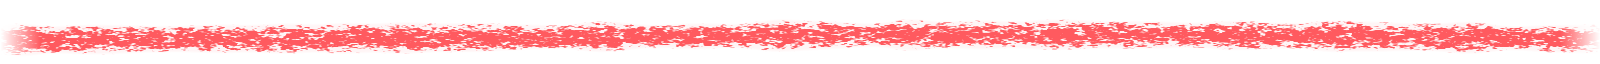
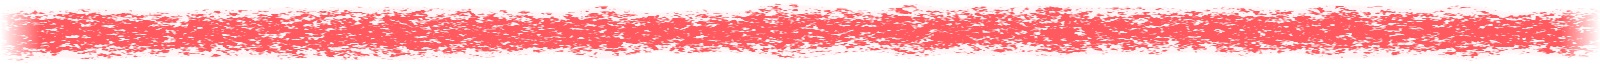
강조 글 크레파스 밑줄을 굵게

diff --git a/index.html b/index.html
@@ -8,47 +8,47 @@
 <meta name="viewport" content="width=device-width, initial-scale=1">
 <title>이경환 포트폴리오</title>
 <link rel="stylesheet" href="https://cdn.jsdelivr.net/gh/orioncactus/pretendard@v1.3.9/dist/web/variable/pretendardvariable-dynamic-subset.min.css">
-<link rel="stylesheet" href="css/w-base.css?v=1126k">
-<link rel="stylesheet" href="css/w-hero.css?v=1126k">
-<link rel="stylesheet" href="css/w-feature.css?v=1126k">
-<link rel="stylesheet" href="css/w-sc.css?v=1126k">
-<link rel="stylesheet" href="css/w-widgets.css?v=1126k">
-<link rel="stylesheet" href="css/w-pin.css?v=1126k">
-<link rel="stylesheet" href="css/w-hgal.css?v=1126k">
-<link rel="stylesheet" href="css/w-tween.css?v=1126k">
-<link rel="stylesheet" href="css/w-line.css?v=1126k">
-<link rel="stylesheet" href="css/w-mesh.css?v=1126k">
-<link rel="stylesheet" href="css/w-parts.css?v=1126k">
-<link rel="stylesheet" href="css/w-modal.css?v=1126k">
-<link rel="stylesheet" href="css/hook.css?v=1126k">
-<link rel="stylesheet" href="css/w-crit.css?v=1126k">
-<link rel="stylesheet" href="css/w-heroback.css?v=1126k">
-<link rel="stylesheet" href="css/w-chip.css?v=1126k">
-<link rel="stylesheet" href="css/w-app.css?v=1126k">
-<link rel="stylesheet" href="css/w-cflow.css?v=1126k">
-<link rel="stylesheet" href="css/w-edit.css?v=1126k">
-<link rel="stylesheet" href="css/w-tech.css?v=1126k">
-<link rel="stylesheet" href="css/w-tech2.css?v=1126k">
-<link rel="stylesheet" href="css/w-tech3.css?v=1126k">
-<link rel="stylesheet" href="css/w-tech4.css?v=1126k">
-<link rel="stylesheet" href="css/w-way.css?v=1126k">
-<link rel="stylesheet" href="css/w-story.css?v=1126k">
-<link rel="stylesheet" href="css/w-dock.css?v=1126k">
-<link rel="stylesheet" href="css/w-more.css?v=1126k">
-<link rel="stylesheet" href="css/w-side.css?v=1126k">
-<link rel="stylesheet" href="css/w-trim.css?v=1126k">
-<link rel="stylesheet" href="css/w-hook2.css?v=1126k">
-<link rel="stylesheet" href="css/w-read.css?v=1126k">
+<link rel="stylesheet" href="css/w-base.css?v=1126m">
+<link rel="stylesheet" href="css/w-hero.css?v=1126m">
+<link rel="stylesheet" href="css/w-feature.css?v=1126m">
+<link rel="stylesheet" href="css/w-sc.css?v=1126m">
+<link rel="stylesheet" href="css/w-widgets.css?v=1126m">
+<link rel="stylesheet" href="css/w-pin.css?v=1126m">
+<link rel="stylesheet" href="css/w-hgal.css?v=1126m">
+<link rel="stylesheet" href="css/w-tween.css?v=1126m">
+<link rel="stylesheet" href="css/w-line.css?v=1126m">
+<link rel="stylesheet" href="css/w-mesh.css?v=1126m">
+<link rel="stylesheet" href="css/w-parts.css?v=1126m">
+<link rel="stylesheet" href="css/w-modal.css?v=1126m">
+<link rel="stylesheet" href="css/hook.css?v=1126m">
+<link rel="stylesheet" href="css/w-crit.css?v=1126m">
+<link rel="stylesheet" href="css/w-heroback.css?v=1126m">
+<link rel="stylesheet" href="css/w-chip.css?v=1126m">
+<link rel="stylesheet" href="css/w-app.css?v=1126m">
+<link rel="stylesheet" href="css/w-cflow.css?v=1126m">
+<link rel="stylesheet" href="css/w-edit.css?v=1126m">
+<link rel="stylesheet" href="css/w-tech.css?v=1126m">
+<link rel="stylesheet" href="css/w-tech2.css?v=1126m">
+<link rel="stylesheet" href="css/w-tech3.css?v=1126m">
+<link rel="stylesheet" href="css/w-tech4.css?v=1126m">
+<link rel="stylesheet" href="css/w-way.css?v=1126m">
+<link rel="stylesheet" href="css/w-story.css?v=1126m">
+<link rel="stylesheet" href="css/w-dock.css?v=1126m">
+<link rel="stylesheet" href="css/w-more.css?v=1126m">
+<link rel="stylesheet" href="css/w-side.css?v=1126m">
+<link rel="stylesheet" href="css/w-trim.css?v=1126m">
+<link rel="stylesheet" href="css/w-hook2.css?v=1126m">
+<link rel="stylesheet" href="css/w-read.css?v=1126m">
 <script type="module" src="https://unpkg.com/@google/model-viewer@3.5.0/dist/model-viewer.min.js"></script>
 <link rel="stylesheet" href="https://fonts.googleapis.com/css2?family=Nanum+Pen+Script&display=swap">
-<link rel="stylesheet" href="css/marks.css?v=1126k">
-<link rel="stylesheet" href="css/pt.css?v=1126k">
-<link rel="stylesheet" href="css/theme_pastel.css?v=1126k">
-<link rel="stylesheet" href="css/theme_dark.css?v=1126k">
-<link rel="stylesheet" href="css/crayon.css?v=1126k">
-<link rel="stylesheet" href="css/cards05.css?v=1126k">
-<link rel="stylesheet" href="css/holdscene.css?v=1126k">
-<link rel="stylesheet" href="css/story_vis.css?v=1126k">
+<link rel="stylesheet" href="css/marks.css?v=1126m">
+<link rel="stylesheet" href="css/pt.css?v=1126m">
+<link rel="stylesheet" href="css/theme_pastel.css?v=1126m">
+<link rel="stylesheet" href="css/theme_dark.css?v=1126m">
+<link rel="stylesheet" href="css/crayon.css?v=1126m">
+<link rel="stylesheet" href="css/cards05.css?v=1126m">
+<link rel="stylesheet" href="css/holdscene.css?v=1126m">
+<link rel="stylesheet" href="css/story_vis.css?v=1126m">
 <script>try{history.scrollRestoration="manual"}catch(e){}try{document.documentElement.dataset.theme=localStorage.getItem("site-theme")==="dark"?"dark":"pastel"}catch(e){document.documentElement.dataset.theme="pastel"}</script>
 </head>
 <body data-bg0="#0b0c0f">
@@ -353,21 +353,21 @@
   <div class="sec-title"><h2><span>응용</span>설계는 몰랐지만 클리커까지</h2></div>
   <p class="sec-lede">모델링에서 AI에게 학습시킨 방식을 배운 적 없는 기구 설계에 그대로 썼습니다.<br>받은 마스코트에 머리를 누르면 딸깍하는 구조를 더했습니다.</p>
   <ol class="tl" aria-label="설탕이에서 클리커까지 지나온 길"><li><em>시작</em><b>처음 만든 설탕이</b></li><li><em>블렌더 학습 뒤</em><b>머리를 누르는 클리커 판</b></li><li><em>설계</em><b>12개 부품으로 나눠 검사</b></li><li><em>시험</em><b>홈 둘레 시험 조각 먼저</b></li><li><em>첫 시험 출력</em><b>한 번에 조립 ✓</b></li></ol>
-  <div class="cflow"><article class='cstep rise side'><div class='cs-pics pair'><figure class='cs-pic a'><img src='img/clicker/cut/sugar_first.webp?v=1126k' alt='처음 만든 설탕이 모델(11월 11일)' loading='lazy'></figure><i class='cs-arr'>→</i><figure class='cs-pic b'><img src='img/clicker/cut/sugar_learned.webp?v=1126k' alt='블렌더를 학습한 뒤의 설탕이 클리커 판' loading='lazy'></figure></div><div class='cs-aside'><div class='cs-head'><h3>처음 만든 설탕이와, 블렌더를 학습한 뒤의 클리커 판</h3></div><p class='cs-story'>왼쪽은 11월 11일에 처음 만든 설탕이 모델입니다.<br>오른쪽은 <b>블렌더를 학습한 뒤</b> 만든 클리커 판입니다.</p></div></article></div>
+  <div class="cflow"><article class='cstep rise side'><div class='cs-pics pair'><figure class='cs-pic a'><img src='img/clicker/cut/sugar_first.webp?v=1126m' alt='처음 만든 설탕이 모델(11월 11일)' loading='lazy'></figure><i class='cs-arr'>→</i><figure class='cs-pic b'><img src='img/clicker/cut/sugar_learned.webp?v=1126m' alt='블렌더를 학습한 뒤의 설탕이 클리커 판' loading='lazy'></figure></div><div class='cs-aside'><div class='cs-head'><h3>처음 만든 설탕이와, 블렌더를 학습한 뒤의 클리커 판</h3></div><p class='cs-story'>왼쪽은 11월 11일에 처음 만든 설탕이 모델입니다.<br>오른쪽은 <b>블렌더를 학습한 뒤</b> 만든 클리커 판입니다.</p></div></article></div>
 </div></section>
 <!-- 스크롤 고정 장면(환기): 내리는 만큼 클리커가 조립됨 -->
-<section class="sec st-sec crit-dark" id="asm" data-bg="#ffffff"><div class="wrap"><div class="cflow"><article class='cstep rise side wide flip'><div class='cs-pics one'><figure class='cs-pic b nat av'><img class='av-poster' src='img/clicker/cut/asm_poster.webp?v=1126k' alt='부품 12개가 차례로 끼워지는 클리커'><video data-alpha src='vid/mascot_clicker_assemble_a.mp4?v=1126k' muted loop playsinline preload='metadata' data-inview></video></figure></div><div class='cs-aside'><div class='cs-head'><h3>받은 마스코트 그대로, 머리를 통째로 누르는 버튼으로</h3></div><p class='cs-story'>출력해 조립하도록 12개 부품으로 나눴습니다.<br>벽 두께와 <b>끼워 넣는 길까지 검사하게</b> 해 첫 시험 출력에서 한 번에 조립했습니다.</p></div></article></div></div></section>
+<section class="sec st-sec crit-dark" id="asm" data-bg="#ffffff"><div class="wrap"><div class="cflow"><article class='cstep rise side wide flip'><div class='cs-pics one'><figure class='cs-pic b nat av'><img class='av-poster' src='img/clicker/cut/asm_poster.webp?v=1126m' alt='부품 12개가 차례로 끼워지는 클리커'><video data-alpha src='vid/mascot_clicker_assemble_a.mp4?v=1126m' muted loop playsinline preload='metadata' data-inview></video></figure></div><div class='cs-aside'><div class='cs-head'><h3>받은 마스코트 그대로, 머리를 통째로 누르는 버튼으로</h3></div><p class='cs-story'>출력해 조립하도록 12개 부품으로 나눴습니다.<br>벽 두께와 <b>끼워 넣는 길까지 검사하게</b> 해 첫 시험 출력에서 한 번에 조립했습니다.</p></div></article></div></div></section>
 <section class="sec st-sec crit-dark" id="clicker" data-bg="#ffffff"><div class="wrap">
 <h3 class="cs-group-h">부품마다 이유를 확인하며 이렇게 설계했습니다</h3>
 <div class="cflow">
-<article class='cstep rise side'><div class='cs-pics one'><figure class='cs-pic b fit'><img src='img/clicker/cut/section_front.webp?v=1126k' alt='머리 속 목 기둥과 코어(단면)' loading='lazy'></figure></div><div class='cs-aside'><div class='cs-head'><h3>머리를 통째로 누르는 구조</h3></div><p class='cs-story'>버튼을 깊숙이 넣어야 흔들림이 준다고 짚었습니다.<br>목 기둥이 머리 속 관에 <b>20mm 물려, 위아래로만</b> 움직입니다.</p></div></article>
-<article class='cstep rise side flip'><div class='cs-pics one'><figure class='cs-pic b fit'><img src='img/clicker/cut/print_a.webp?v=1126k' alt='부품마다 정한 출력 자세' loading='lazy'></figure></div><div class='cs-aside'><div class='cs-head'><h3>머리 속 부품은 따로 뽑게</h3></div><p class='cs-story'>멈춤 턱과 십자 홈을 머리 안에 붙이면 뽑을 때 허공에 뜹니다.<br><b>'코어'라는 부품으로 빼서</b> 따로 뽑은 뒤 끼우게 했습니다.</p></div></article>
-<article class='cstep rise side'><div class='cs-pics one'><figure class='cs-pic b fit'><img src='img/clicker/cut/pin_ends.webp?v=1126k' alt='꼬리 · 날개 · 귀의 끼우는 못 끝' loading='lazy'></figure></div><div class='cs-aside'><div class='cs-head'><h3>잘못 끼울 수 없게</h3></div><p class='cs-story'>좌우 짝이 있는 날개, 귀는 반대로 끼우기 쉽습니다.<br>앞선 판에서는 못 끝을 깎고 쐐기를 둬, <b>틀리면 끝까지 안 들어가게</b> 했습니다.</p></div></article>
-<article class='cstep rise side flip'><div class='cs-pics one'><figure class='cs-pic b fit boxed'><img src='img/clicker/cut/latch_pull.webp?v=1126k' alt='끝까지 들어가 걸림 → 당기면 턱이 걸림(빨강)' loading='lazy'></figure></div><div class='cs-aside'><div class='cs-head'><h3>한 번 끼우면 안 빠지게</h3></div><p class='cs-story'>통짜 못에 돌기만 달면 휘지 않아 끼울 때 짓눌리기만 합니다.<br>앞선 판에서는 <b>못 끝을 가는 팔로 떼어 휘게</b> 하고 턱을 달았습니다.</p></div></article>
-<article class='cstep rise side'><div class='cs-pics one'><figure class='cs-pic b fit'><img src='img/clicker/cut/fit_test_a.webp?v=1126k' alt='맞춤 시험 조각' loading='lazy'></figure></div><div class='cs-aside'><div class='cs-head'><h3>큰 부품 전에 작은 조각으로</h3></div><p class='cs-story'>큰 부품이 안 맞으면 시간과 재료를 다 버리게 됩니다.<br><b>홈 둘레만 떼어 낸 시험 조각</b>을 먼저 뽑아 물림을 맞추게 했습니다.</p></div></article>
-<article class='cstep rise side flip'><div class='cs-pics one'><figure class='cs-pic b fit'><img src='img/clicker/cut/baked_one.webp?v=1126k' alt='겉면을 얇은 색 층으로 구운 클리커' loading='lazy'></figure></div><div class='cs-aside'><div class='cs-head'><h3>블렌더에서 보던 색 그대로 출력되게</h3></div><p class='cs-story'>AI가 형상만 꺼내, 색 무늬가 출력 파일에서 빠졌습니다.<br>색 무늬는 <b>겉면의 얇은 색 층으로 잘라</b> 다색 프린터로 뽑게 했습니다.</p></div></article>
-<article class='cstep rise side'><div class='cs-pics one'><figure class='cs-pic b fit'><span class='cs-hint'>눌러 보세요</span><img class='press-img' src='img/clicker/cut/press/p000.webp?v=1126k' alt='조립된 클리커 — 머리를 누르면 3.6 mm 내려갔다 올라옵니다' data-press='img/clicker/cut/press/p' data-ext='.webp?v=1126k' data-count='13' draggable='false'></figure></div><div class='cs-aside'><div class='cs-head'><h3>누른 머리가 다시 올라오게</h3></div><p class='cs-story'>스위치 힘이 머리 무게보다 약하면 안 올라옵니다.<br><b>힘 그래프로 더 센 스위치</b>를 고르고 머리 속을 비워 가볍게 했습니다.</p></div></article>
-<article class='cstep rise side flip'><div class='cs-pics one'><figure class='cs-pic b fit'><img src='img/clicker/cut/gap_sections.webp?v=1126k' alt='검사 그림: 부품(파랑)과 홈(크림) 사이가 단면마다 떨어져 있는지' loading='lazy'></figure></div><div class='cs-aside'><div class='cs-head'><h3>AI가 설계할 때 지킬 규칙을 정했습니다</h3></div><p class='cs-story'>모르는 값을 짐작으로 채우지 않게 했습니다.<br>모든 부품 쌍이 <b>겹치지 않는 검사를 통과해야만</b> 파일을 내보냅니다.</p></div></article>
+<article class='cstep rise side'><div class='cs-pics one'><figure class='cs-pic b fit'><img src='img/clicker/cut/section_front.webp?v=1126m' alt='머리 속 목 기둥과 코어(단면)' loading='lazy'></figure></div><div class='cs-aside'><div class='cs-head'><h3>머리를 통째로 누르는 구조</h3></div><p class='cs-story'>버튼을 깊숙이 넣어야 흔들림이 준다고 짚었습니다.<br>목 기둥이 머리 속 관에 <b>20mm 물려, 위아래로만</b> 움직입니다.</p></div></article>
+<article class='cstep rise side flip'><div class='cs-pics one'><figure class='cs-pic b fit'><img src='img/clicker/cut/print_a.webp?v=1126m' alt='부품마다 정한 출력 자세' loading='lazy'></figure></div><div class='cs-aside'><div class='cs-head'><h3>머리 속 부품은 따로 뽑게</h3></div><p class='cs-story'>멈춤 턱과 십자 홈을 머리 안에 붙이면 뽑을 때 허공에 뜹니다.<br><b>'코어'라는 부품으로 빼서</b> 따로 뽑은 뒤 끼우게 했습니다.</p></div></article>
+<article class='cstep rise side'><div class='cs-pics one'><figure class='cs-pic b fit'><img src='img/clicker/cut/pin_ends.webp?v=1126m' alt='꼬리 · 날개 · 귀의 끼우는 못 끝' loading='lazy'></figure></div><div class='cs-aside'><div class='cs-head'><h3>잘못 끼울 수 없게</h3></div><p class='cs-story'>좌우 짝이 있는 날개, 귀는 반대로 끼우기 쉽습니다.<br>앞선 판에서는 못 끝을 깎고 쐐기를 둬, <b>틀리면 끝까지 안 들어가게</b> 했습니다.</p></div></article>
+<article class='cstep rise side flip'><div class='cs-pics one'><figure class='cs-pic b fit boxed'><img src='img/clicker/cut/latch_pull.webp?v=1126m' alt='끝까지 들어가 걸림 → 당기면 턱이 걸림(빨강)' loading='lazy'></figure></div><div class='cs-aside'><div class='cs-head'><h3>한 번 끼우면 안 빠지게</h3></div><p class='cs-story'>통짜 못에 돌기만 달면 휘지 않아 끼울 때 짓눌리기만 합니다.<br>앞선 판에서는 <b>못 끝을 가는 팔로 떼어 휘게</b> 하고 턱을 달았습니다.</p></div></article>
+<article class='cstep rise side'><div class='cs-pics one'><figure class='cs-pic b fit'><img src='img/clicker/cut/fit_test_a.webp?v=1126m' alt='맞춤 시험 조각' loading='lazy'></figure></div><div class='cs-aside'><div class='cs-head'><h3>큰 부품 전에 작은 조각으로</h3></div><p class='cs-story'>큰 부품이 안 맞으면 시간과 재료를 다 버리게 됩니다.<br><b>홈 둘레만 떼어 낸 시험 조각</b>을 먼저 뽑아 물림을 맞추게 했습니다.</p></div></article>
+<article class='cstep rise side flip'><div class='cs-pics one'><figure class='cs-pic b fit'><img src='img/clicker/cut/baked_one.webp?v=1126m' alt='겉면을 얇은 색 층으로 구운 클리커' loading='lazy'></figure></div><div class='cs-aside'><div class='cs-head'><h3>블렌더에서 보던 색 그대로 출력되게</h3></div><p class='cs-story'>AI가 형상만 꺼내, 색 무늬가 출력 파일에서 빠졌습니다.<br>색 무늬는 <b>겉면의 얇은 색 층으로 잘라</b> 다색 프린터로 뽑게 했습니다.</p></div></article>
+<article class='cstep rise side'><div class='cs-pics one'><figure class='cs-pic b fit'><span class='cs-hint'>눌러 보세요</span><img class='press-img' src='img/clicker/cut/press/p000.webp?v=1126m' alt='조립된 클리커 — 머리를 누르면 3.6 mm 내려갔다 올라옵니다' data-press='img/clicker/cut/press/p' data-ext='.webp?v=1126m' data-count='13' draggable='false'></figure></div><div class='cs-aside'><div class='cs-head'><h3>누른 머리가 다시 올라오게</h3></div><p class='cs-story'>스위치 힘이 머리 무게보다 약하면 안 올라옵니다.<br><b>힘 그래프로 더 센 스위치</b>를 고르고 머리 속을 비워 가볍게 했습니다.</p></div></article>
+<article class='cstep rise side flip'><div class='cs-pics one'><figure class='cs-pic b fit'><img src='img/clicker/cut/gap_sections.webp?v=1126m' alt='검사 그림: 부품(파랑)과 홈(크림) 사이가 단면마다 떨어져 있는지' loading='lazy'></figure></div><div class='cs-aside'><div class='cs-head'><h3>AI가 설계할 때 지킬 규칙을 정했습니다</h3></div><p class='cs-story'>모르는 값을 짐작으로 채우지 않게 했습니다.<br>모든 부품 쌍이 <b>겹치지 않는 검사를 통과해야만</b> 파일을 내보냅니다.</p></div></article>
 </div></div></section>
 </div>
 <div class="wrap st-close"><button class="st-btn" type="button" aria-expanded="true" aria-controls="st5-more">접기</button></div>
@@ -392,58 +392,58 @@
 </div>
 
 
-<script src="chipmodal.js?v=1126k"></script>
-<script src="heroback.js?v=1126k"></script>
+<script src="chipmodal.js?v=1126m"></script>
+<script src="heroback.js?v=1126m"></script>
 
 
-<script src="autoscene.js?v=1126k"></script>
-
-
-
+<script src="autoscene.js?v=1126m"></script>
 
 
 
-<script src="slots.js?v=1126k"></script>
-<script src="compare.js?v=1126k"></script>
-<script src="widgets.js?v=1126k"></script>
 
 
-<script src="railnav.js?v=1126k"></script>
-<script src="press.js?v=1126k"></script>
-<script src="themes.js?v=1126k"></script>
-<script src="bgtween.js?v=1126k"></script>
-<script src="reveal.js?v=1126k"></script>
-<script src="vidplay.js?v=1126k"></script>
-<script src="appstage.js?v=1126k"></script>
-<script src="techart_order.js?v=1126k"></script>
-<script src="techart_race.js?v=1126k"></script>
-<script src="techart_qs.js?v=1126k"></script>
-<script src="techart_cases.js?v=1126k"></script>
-<script src="techart_ad.js?v=1126k"></script>
-<script src="techart_way.js?v=1126k"></script>
-<script src="techart_frame.js?v=1126k"></script>
-<script src="techart.js?v=1126k"></script>
-<script src="hgal.js?v=1126k"></script>
-<script src="story.js?v=1126k"></script>
-<script src="story_fold.js?v=1126k"></script>
-<script src="title_wrap.js?v=1126k"></script>
-<script src="more_row.js?v=1126k"></script>
-<script src="bar_hide.js?v=1126k"></script>
 
-<script src="toc.js?v=1126k"></script>
-<script src="pt/engine.js?v=1126k"></script>
-<script src="pt/shapes.js?v=1126k"></script>
-<script src="pt/shapes_live.js?v=1126k"></script>
-<script src="pt/shapes_model.js?v=1126k"></script>
-<script src="pt/real3d.js?v=1126k"></script>
-<script src="pt/scene.js?v=1126k"></script>
-<script src="holdscene.js?v=1126k"></script>
-<script src="alpha_video.js?v=1126k"></script>
-<script src="impact.js?v=1126k"></script>
-<script src="pen.js?v=1126k"></script>
-<script src="audio.js?v=1126k"></script>
-<script src="sound.js?v=1126k"></script>
-<script src="darkfix.js?v=1126k"></script>
-<script src="entry.js?v=1126k"></script>
+<script src="slots.js?v=1126m"></script>
+<script src="compare.js?v=1126m"></script>
+<script src="widgets.js?v=1126m"></script>
+
+
+<script src="railnav.js?v=1126m"></script>
+<script src="press.js?v=1126m"></script>
+<script src="themes.js?v=1126m"></script>
+<script src="bgtween.js?v=1126m"></script>
+<script src="reveal.js?v=1126m"></script>
+<script src="vidplay.js?v=1126m"></script>
+<script src="appstage.js?v=1126m"></script>
+<script src="techart_order.js?v=1126m"></script>
+<script src="techart_race.js?v=1126m"></script>
+<script src="techart_qs.js?v=1126m"></script>
+<script src="techart_cases.js?v=1126m"></script>
+<script src="techart_ad.js?v=1126m"></script>
+<script src="techart_way.js?v=1126m"></script>
+<script src="techart_frame.js?v=1126m"></script>
+<script src="techart.js?v=1126m"></script>
+<script src="hgal.js?v=1126m"></script>
+<script src="story.js?v=1126m"></script>
+<script src="story_fold.js?v=1126m"></script>
+<script src="title_wrap.js?v=1126m"></script>
+<script src="more_row.js?v=1126m"></script>
+<script src="bar_hide.js?v=1126m"></script>
+
+<script src="toc.js?v=1126m"></script>
+<script src="pt/engine.js?v=1126m"></script>
+<script src="pt/shapes.js?v=1126m"></script>
+<script src="pt/shapes_live.js?v=1126m"></script>
+<script src="pt/shapes_model.js?v=1126m"></script>
+<script src="pt/real3d.js?v=1126m"></script>
+<script src="pt/scene.js?v=1126m"></script>
+<script src="holdscene.js?v=1126m"></script>
+<script src="alpha_video.js?v=1126m"></script>
+<script src="impact.js?v=1126m"></script>
+<script src="pen.js?v=1126m"></script>
+<script src="audio.js?v=1126m"></script>
+<script src="sound.js?v=1126m"></script>
+<script src="darkfix.js?v=1126m"></script>
+<script src="entry.js?v=1126m"></script>
 </body>
 </html>

diff --git a/css/marks.css b/css/marks.css
@@ -27,9 +27,10 @@
 @media (prefers-reduced-motion: reduce) { .fh-line { opacity: 1; transform: none; transition: none; } }
 
 /* 밑줄: 글이 다 써진 뒤 그어진다(sound.js 가 .drawn) — 줄이 나뉘어도 글자 전체를 따라. 선 그림은 색이 테마마다 달라 테마 파일에 */
-.ul { background-repeat: no-repeat; background-position: 0 100%; background-size: 0% .34em; padding-bottom: .06em; transition: background-size .55s ease-out; }
-.ul.drawn { background-size: 100% .34em; }
-@media (prefers-reduced-motion: reduce) { .ul { transition: none; background-size: 100% .34em; } }
+/* 밑줄 두께 .34em → .62em · 획도 굵게 다시 그림(crayon_png.py, 11-22 사용자 "줄 긋는 걸 굵직굵직하게") */
+.ul { background-repeat: no-repeat; background-position: 0 100%; background-size: 0% .62em; padding-bottom: .12em; transition: background-size .55s ease-out; }
+.ul.drawn { background-size: 100% .62em; }
+@media (prefers-reduced-motion: reduce) { .ul { transition: none; background-size: 100% .62em; } }
 
 /* 글 써지기: 앞 글자부터 한 글자씩 스르륵(sound.js 가 글자마다 .ch 와 순번 --i, 간격 --st 를 달고 화면에 들어오면 .go). 번호(.st-no)는 처음부터 보임.
    줄 전체가 떠오르던 들머리 줄은 글자만 움직이게 끈다. 글자를 inline-block 으로 바꾸지 않는다(한글 낱말 중간에서 줄이 끊김). */

diff --git a/css/crayon.css b/css/crayon.css
@@ -6,8 +6,8 @@
   --cr-d: url("../img/crayon/arrow_d.png");
 }
 /* 밑줄 */
-html[data-theme="pastel"] .ul { background-image: url("../img/crayon/ul_pastel.png"); }
-html[data-theme="dark"] .ul { background-image: url("../img/crayon/ul_dark.png"); }
+html[data-theme="pastel"] .ul { background-image: url("../img/crayon/ul_pastel.png?v=2"); }
+html[data-theme="dark"] .ul { background-image: url("../img/crayon/ul_dark.png?v=2"); }
 /* 동그라미 · ✓ · 그림 사이 화살표: 선은 그대로 긋고 겉에 크레파스 질감 */
 .pen-mark path, .pen-ring path, .pen-arrow path { filter: url(#crayon-i); }   /* 선 자체에 건다(그림 상자에 걸면 화살표가 통째로 사라졌음) */
 /* NG 그림의 줄 긋기: 매끈한 빛 막대 → 크레파스 */
